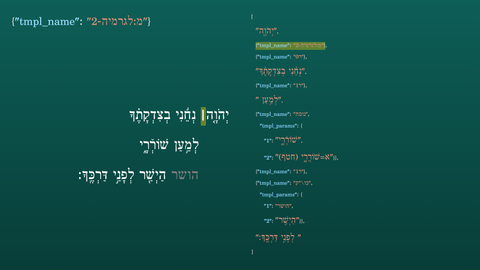
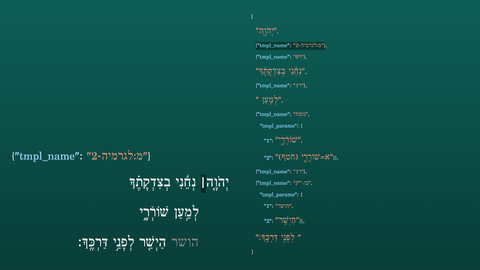
Regenerate mam-is-a-dataset thumbs and updated slide source HTML

diff --git a/misc/mam-is-a-dataset/img-sources/slide-psalm-15v1-qamats.html b/misc/mam-is-a-dataset/img-sources/slide-psalm-15v1-qamats.html
@@ -30,6 +30,11 @@
     height: auto;
   }
 
+    :root {
+        --hl-rgb: 0,0,0;
+        --hl-alpha-main: 0.35;
+        --hl-alpha-companion: 0.4;
+    }
     .tok-key { color: #9cdcfe; }
     .tok-string { color: #ce9178; }
     .tok-number { color: #b5cea8; }
@@ -43,7 +48,7 @@
         font-feature-settings: 'ss03';
     }
     .hl-bg {
-        background-color: rgba(255,210,0,0.35);
+        background-color: rgba(var(--hl-rgb), var(--hl-alpha-main));
         border-radius: 3px;
     }
     .paseq-bold {
